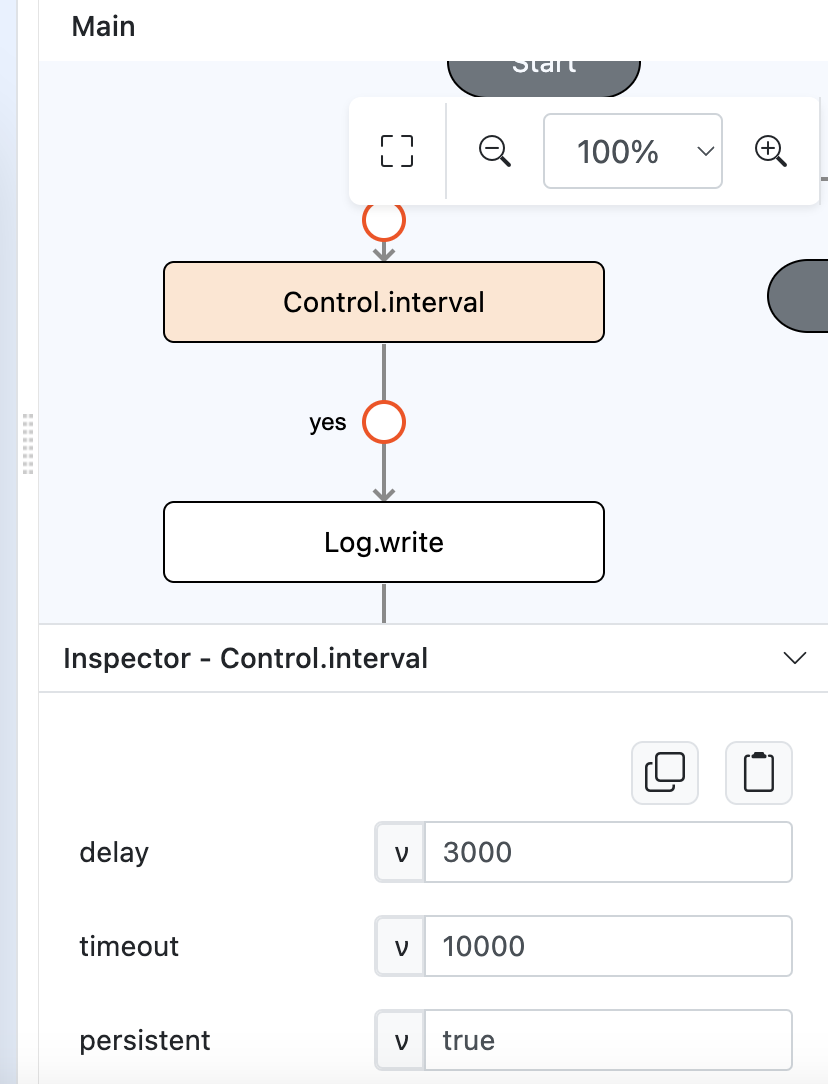
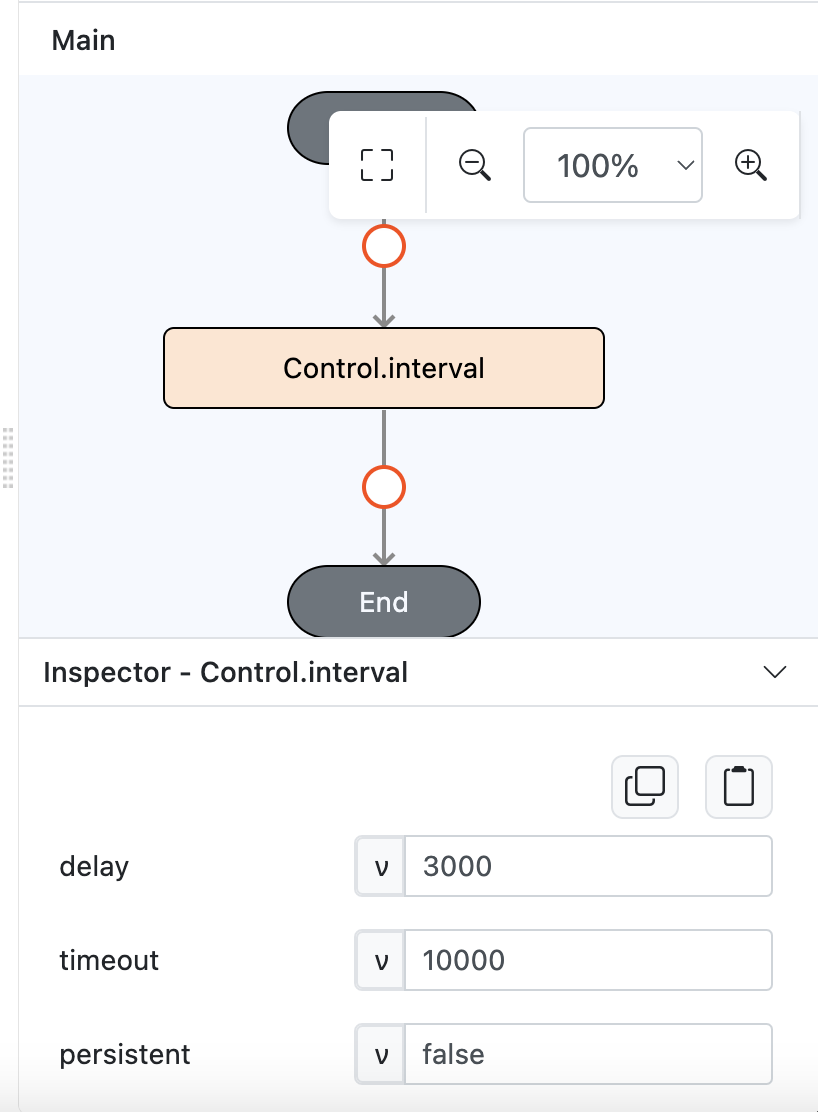
EP-1355-Added log write function to interval function step

diff --git a/document/client/006-actions-and-visual-logic/action-reference/react-native/Control/interval/interval.md b/document/client/006-actions-and-visual-logic/action-reference/react-native/Control/interval/interval.md
@@ -6,11 +6,11 @@ Executes a function continuously with the specified interval between each execut
 
 ## Input / Parameter
 
-| Name | Description | Input Type | Default | Options | Required |
-| ------ | ------ | ------ | ------ | ------ | ------ |
-| delay | The duration between each run. (In milliseconds)  | Number | 0 | - | Yes |
-| timeout | The duration the output appears for. (In milliseconds)   | Number | 0 | - | Yes |
-| persistent | Interval is repeated outside current page or not.  | Boolean | false | - | No |
+| Name       | Description                                             | Input Type | Default | Options | Required |
+| ---------- | ------------------------------------------------------- | ---------- | ------- | ------- | -------- |
+| delay      | The duration between each run. (In milliseconds)        | Number     | 0       | -       | Yes      |
+| timeout    | The duration the output appears for. (In milliseconds)  | Number     | 0       | -       | Yes      |
+| persistent | Interval is repeated outside current page or not.       | Boolean    | false   | -       | No       |
 
 ## Output
 
@@ -19,6 +19,10 @@ The function will return true if it ran successfully.
 ## Callback
 
 The action performed if the condition is true.
+
+## Example
+
+In this example, we will pass a condition to check whether two values are equal using the `Logic.equal` function and print the result of the `Control.conditional` function in the console.
 
 ### Steps
 
@@ -36,5 +40,18 @@ The action performed if the condition is true.
         style="width: 100%; padding: 5px;"/>
     </div>
 
+3. Put a `Log.write` function below `Control.interval` as the callback.
+
+    <div style="display:flex; align-items:center; justify-content:center; background-color: #E7F1FF;">
+        <img src="./interval-step-3.png"
+        style="width: 100%; padding: 5px;"/>
+    </div>
+
 ### Result
-1. The function will return true if interval executed.
+
+1. The function will call the callback 3 times based on interval time. Because 10.000 / 3.000 = 3.3 and we will floor to 3, then the callback will called 3 times.
+   
+    <div style="display:flex; align-items:center; justify-content:center; background-color: #E7F1FF;">
+        <img src="./interval-result.png"
+        style="width: 100%; padding: 5px;"/>
+    </div>
